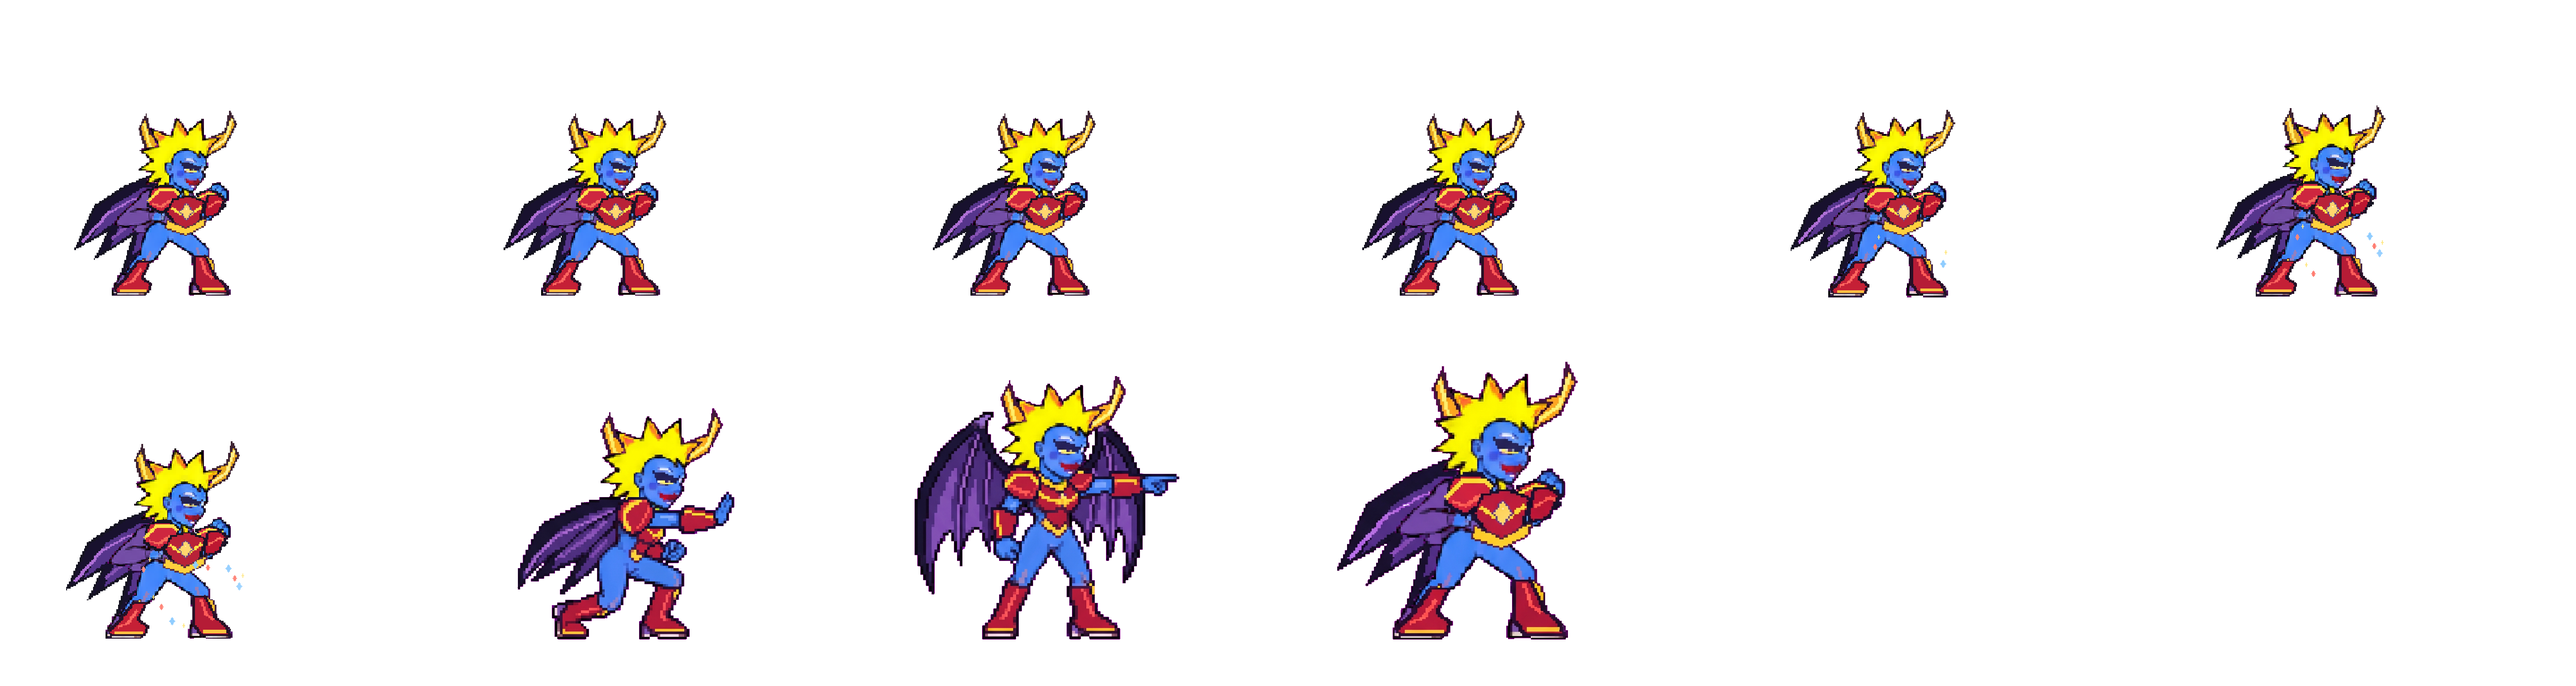
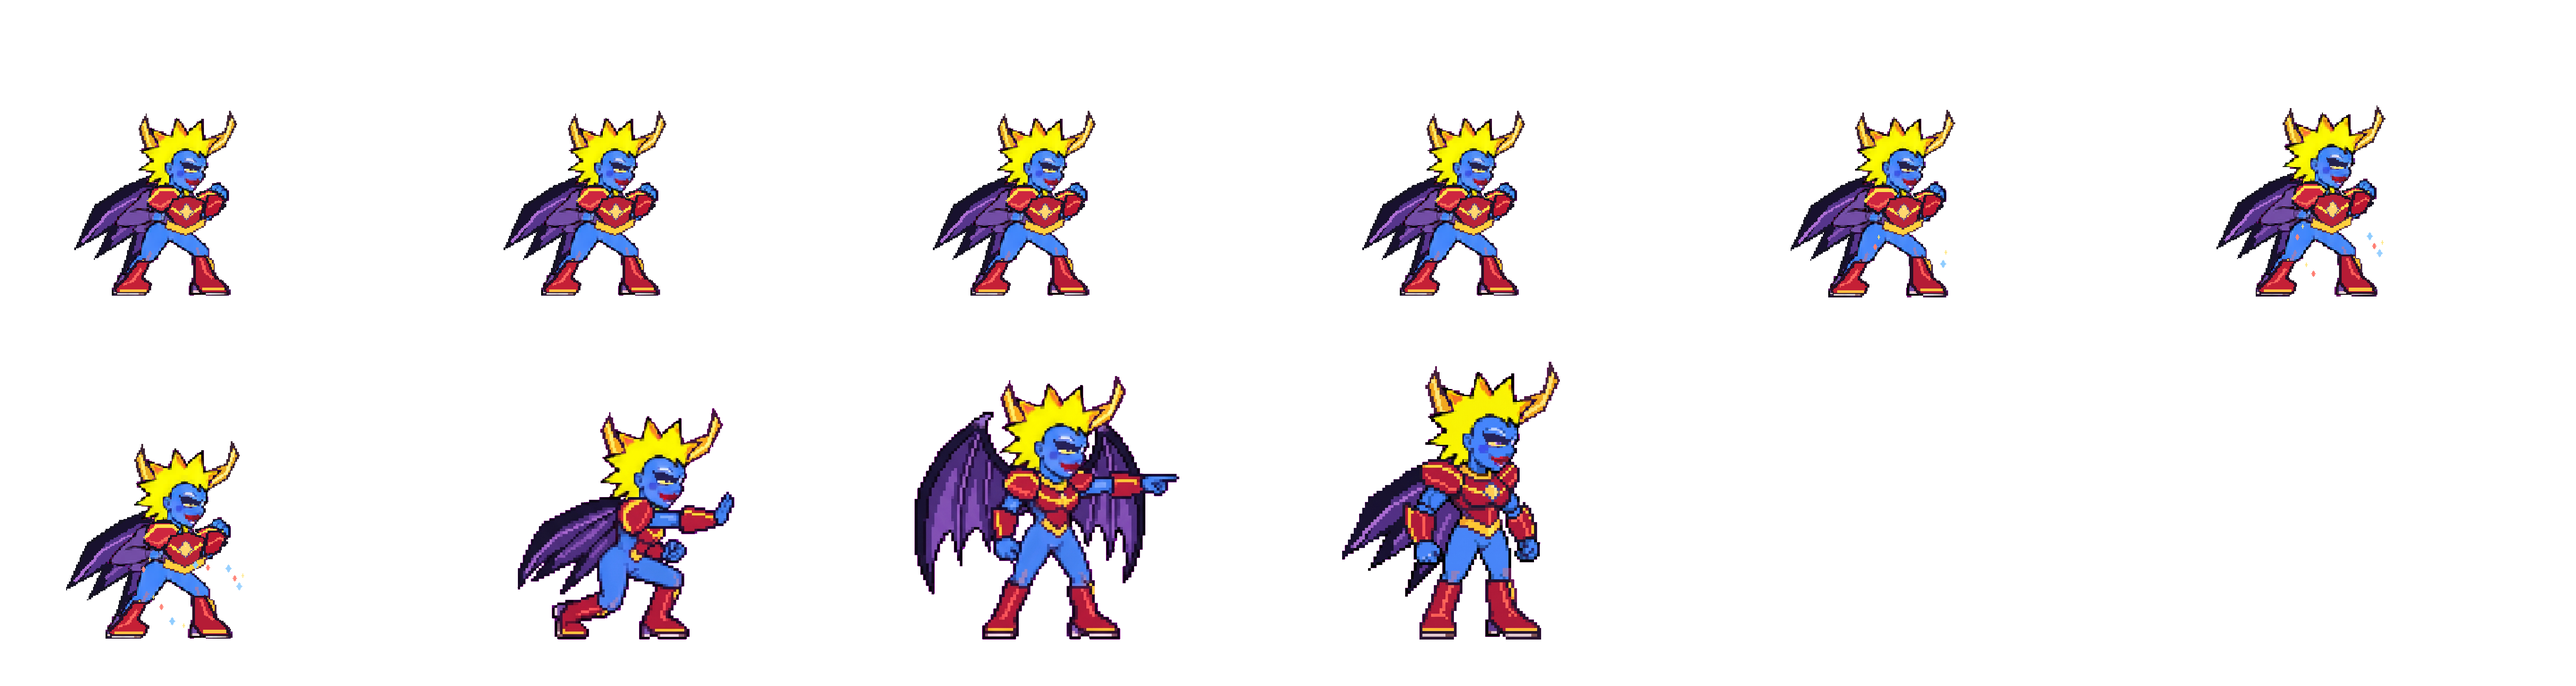
Fix Artchick guard, scale Juicy, and swap High Sproto projectile art

Changed region(s): [[0.5, 0.5312, 0.625, 0.9375]]

diff --git a/src/powerArt.ts b/src/powerArt.ts
@@ -8,6 +8,7 @@ let retainCoin: HTMLImageElement | undefined;
 let referenceB: HTMLImageElement | undefined;
 let miniSproto: HTMLImageElement | undefined;
 let ethereum: HTMLImageElement | undefined;
+let weedLeaf: HTMLImageElement | undefined;
 let coinReady: Promise<void> | undefined;
 export function ensurePowerArt(): Promise<void> {
  const load=(url:string)=>new Promise<HTMLImageElement>((resolve,reject)=>{
@@ -19,7 +20,8 @@ export function ensurePowerArt(): Promise<void> {
   load('/fighters/powers/sproto3106-reference-b.png'),
   load('/fighters/powers/sproto2531-mini.png'),
   load('/fighters/powers/vitalik-ethereum.png'),
- ]).then(([coin,b,mini,eth])=>{retainCoin=coin;referenceB=b;miniSproto=mini;ethereum=eth;}).catch(error=>{coinReady=undefined;throw error;});
+  load('/fighters/powers/highsproto-weed-leaf.png'),
+ ]).then(([coin,b,mini,eth,leaf])=>{retainCoin=coin;referenceB=b;miniSproto=mini;ethereum=eth;weedLeaf=leaf;}).catch(error=>{coinReady=undefined;throw error;});
 }
 /** A pixel stream starts exactly at the caller's covered pelvic anchor. */
 export function drawPelvicStream(c:CanvasRenderingContext2D,reach:number,age:number){
@@ -142,7 +144,12 @@ export function drawPower(c:CanvasRenderingContext2D,shape:string,age:number,col
   const pixels:number[][]=[];for(const[letterIndex,letter]of [...'RETAIN'].entries())font[letter].forEach((row,y)=>[...row].forEach((bit,x)=>{if(bit==='1')pixels.push([-53+letterIndex*18+x*3,-10+y*3]);}));
   for(const[x,y]of pixels)box(x-1,y-1,5,5,'#17132c');for(const[x,y]of pixels)box(x,y,3,3,'#ffe66b');
  }
- else if(shape==='joint'){box(-18,-4,37,8,'#978c79');box(-16,-3,34,6,'#f5efd9');box(-16,-3,8,6,'#c7a478');box(-7,-2,23,1,'#fffef0');box(17,-3,4,6,'#65605a');box(20,-2,3,4,age%6<3?'#ff7040':'#eb492c');box(22,-1,2,2,'#ffcb70');const rise=Math.round(age*.4)%7;box(16,-9-rise,3,3,'#c8cbd0');box(10,-14-rise,3,3,'#949ba5');}
+ else if(shape==='joint'){
+  if(weedLeaf?.naturalWidth){
+   const w=42,h=weedLeaf.naturalHeight*w/weedLeaf.naturalWidth;
+   c.rotate(Math.sin(age*.32)*.15);c.drawImage(weedLeaf,-w/2,-h/2,w,h);
+  }else if(!coinReady)void ensurePowerArt().catch(error=>console.error(error));
+ }
  else if(shape==='egg'){box(-8,-12,16,24,'#e6d5ac');box(-12,-7,24,17,'#fff6de');box(-6,-15,12,6,'#fff6de');box(-3,-7,7,10,'#f3cf4a');box(-7,10,14,4,'#d7c39d');}
  else if(shape==='drop'){box(-2,-17,4,6,'#8bdcf5');box(-5,-11,10,6,'#51b5f1');box(-9,-5,18,6,'#3089db');box(-12,1,24,9,'#2073c6');box(-8,10,16,5,'#15539b');box(-5,-2,4,8,'#d6f8ff');}
  else if(shape==='acid'){box(-14,-6,27,12,'#76a72b');box(-9,-10,19,21,'#b4e862');box(-4,-13,10,6,'#dcff8d');box(12,-2,7,8,'#8eca3e');box(-8,8,5,7,'#91c73b');box(4,10,4,9,'#b4e862');box(-20,-3,4,5,'#b4e862');}

diff --git a/src/main.ts b/src/main.ts
@@ -164,7 +164,7 @@ async function launchSelection(setup:SelectionSetup,isStory=false) {
     const requiredFighters=[setup.fighter,...(encounter?.opponents??[setup.opponent])];
     // Usually already prefetched; otherwise the rest of the bodies load now.
     $('selection-loading').textContent='Loading selected fighters…';
-    try{await Promise.all([ensurePoseAtlases(requiredFighters,{pin:true}),requiredFighters.some(id=>['michael','sproto2531','sproto3106','vitaliketh'].includes(id))?ensurePowerArt():Promise.resolve()]);}catch(error){selection.setReady(false,'Selected fighter art could not load. Choose again to retry.');console.error(error);return false;}
+    try{await Promise.all([ensurePoseAtlases(requiredFighters,{pin:true}),requiredFighters.some(id=>['michael','sproto2531','sproto3106','vitaliketh','highsproto'].includes(id))?ensurePowerArt():Promise.resolve()]);}catch(error){selection.setReady(false,'Selected fighter art could not load. Choose again to retry.');console.error(error);return false;}
     let scenery=encounter?storyLocationForEncounter(encounter,STORY_ENCOUNTERS,encounter.opponents.indexOf(setup.opponent)):null;
     if(scenery){try{await loadStoryLocation(scenery);}catch(error){console.warn('Story scenery unavailable; using the original arena.',error);scenery=null;}}
     try{
@@ -588,7 +588,10 @@ function showOnlineOverlay(title: string, copy: string, button: string, kicker: 
 async function beginOnline(match: OnlineMatch, fighters: [FighterId, FighterId], stageId: string, wager: boolean) {
     const stage = (STAGES.some(s => s.id === stageId) ? stageId : 'ranch') as StageId;
     showOnlineOverlay('Opponent found!', 'Loading fighters…', 'Loading…', 'ONLINE', null);
-    await Promise.all([loadStageArt([stage]), ensurePoseAtlases(fighters,{pin:true}).catch(() => undefined)]);
+    await Promise.all([
+        loadStageArt([stage]),ensurePoseAtlases(fighters,{pin:true}).catch(()=>undefined),
+        fighters.includes('highsproto')?ensurePowerArt().catch(()=>undefined):Promise.resolve(),
+    ]);
     if (match !== online || !match.session) return;
     chosen = fighters[0]; opponent = fighters[1]; mode = 'versus';
     matchTesting = false; matchGodMode = false;

diff --git a/src/render.ts b/src/render.ts
@@ -220,7 +220,7 @@ export function render(c: CanvasRenderingContext2D, s: CombatState, presentation
         const f = s.fighters[i];
         if(f.move && f.move.t>0){
             const aim=f.move.aim,powerShape=f.id==='theo'?'chestLaser':COMBAT_STYLES[f.id].projectile.shape;
-            const label=f.move.id==='grab'?(f.move.throwDirection??'forward').toUpperCase()+' THROW':f.move.id==='bolt'?(powerShape==='yellowEight'?'YELLOW 8':powerShape.startsWith('signature:')?'RANGED ATTACK':powerShape==='painting'?'PAINTING THROW':powerShape.replace(/([A-Z])/g,' $1').toUpperCase()):aim==='upForward'?'DIAGONAL STRIKE':aim==='up'?'RISING STRIKE':aim==='down'?(f.y<FLOOR?'DIVE STRIKE':'LOW STRIKE'):'';
+            const label=f.move.id==='grab'?(f.move.throwDirection??'forward').toUpperCase()+' THROW':f.move.id==='bolt'?(powerShape==='joint'?'WEED LEAF':powerShape==='yellowEight'?'YELLOW 8':powerShape.startsWith('signature:')?'RANGED ATTACK':powerShape==='painting'?'PAINTING THROW':powerShape.replace(/([A-Z])/g,' $1').toUpperCase()):aim==='upForward'?'DIAGONAL STRIKE':aim==='up'?'RISING STRIKE':aim==='down'?(f.y<FLOOR?'DIVE STRIKE':'LOW STRIKE'):'';
             if(label&&!(f.id==='michael'&&f.move.id==='bolt'&&f.move.t<38))text(c,label,f.x,f.y-200,10,'#e8e4cc','center',750);
             if(f.move.connected&&f.move.id!=='special'&&f.move.id!=='grab')text(c,f.dashCanceled?'CHAIN READY':'CHAIN / DASH CANCEL',f.x,f.y+35,9,'#b4f8c8','center',750);
         }

diff --git a/src/poseAtlas.ts b/src/poseAtlas.ts
@@ -205,7 +205,9 @@ async function loadAtlas(id: string, cfg: PoseAtlasConfig, revision?: string): P
   const [frames, walkFrames, clipEntries] = await Promise.all([loadFrames(cfg.frames, 'poses'), cfg.walkFrames ? loadFrames(cfg.walkFrames, 'walk') : undefined, Promise.all(Object.entries(cfg.clips??{}).map(async ([name,entries])=>[name,await loadFrames(entries!,name)] as const))]);
   const sheet = sheetImage ? await sheetImage : null, bitmaps = sheet ? [sheet] : [];
   const bytes = [...bitmaps, ...ownImages].reduce((sum, image) => { const [w, h] = imageSize(image); return sum + w * h * 4; }, 0);
-  return { frames, walkFrames, clips:Object.fromEntries(clipEntries), scale: cfg.scale ?? cfg.worldHeight! / cfg.height, facing: cfg.facing ?? 1, cycle: cfg.walkCycleDistance ?? 72, holdContact:cfg.holdContact, bytes, bitmaps };
+  // Juicy's regular atlas scales around each cel's foot anchor. His story mecha uses separate art.
+  const scale=(cfg.scale ?? cfg.worldHeight! / cfg.height)*(id==='guest07'?1.1:1);
+  return { frames, walkFrames, clips:Object.fromEntries(clipEntries), scale, facing: cfg.facing ?? 1, cycle: cfg.walkCycleDistance ?? 72, holdContact:cfg.holdContact, bytes, bitmaps };
 }
 /** Optional installation: 404 or an empty roster returns false. Invalid manifests
  * and failed assets reject and expose an error status; no partial atlas is used.
